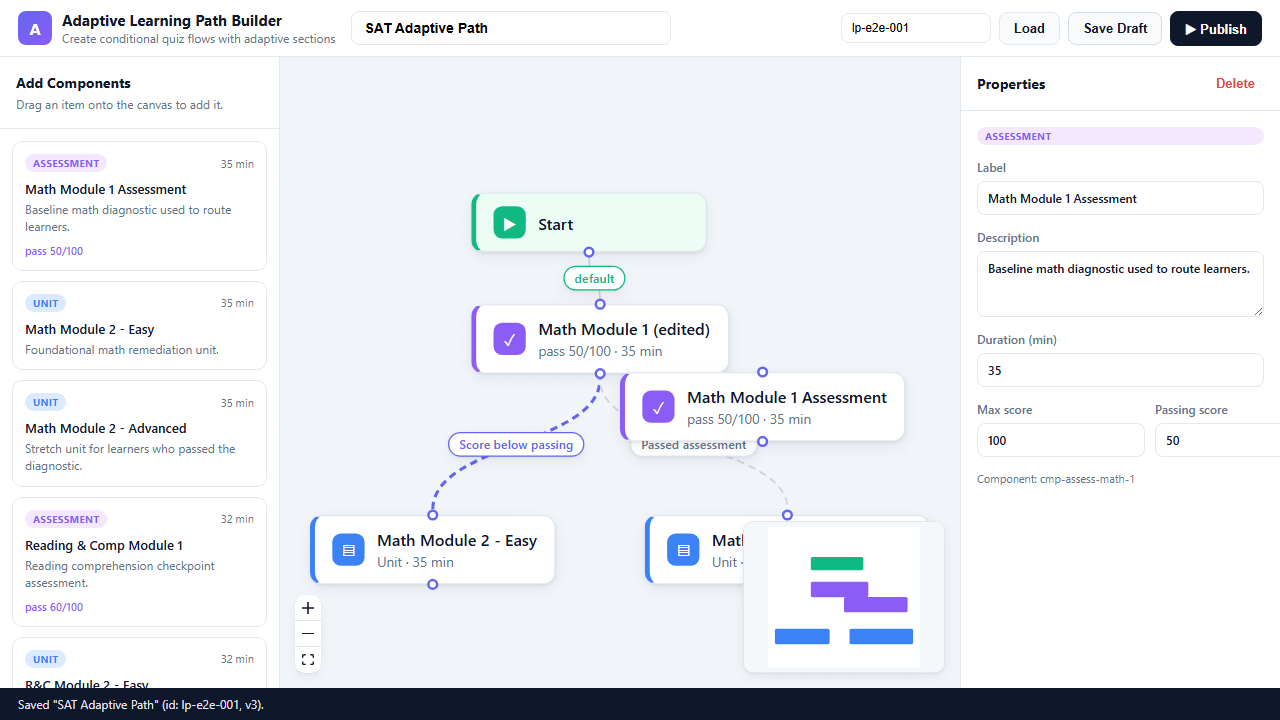
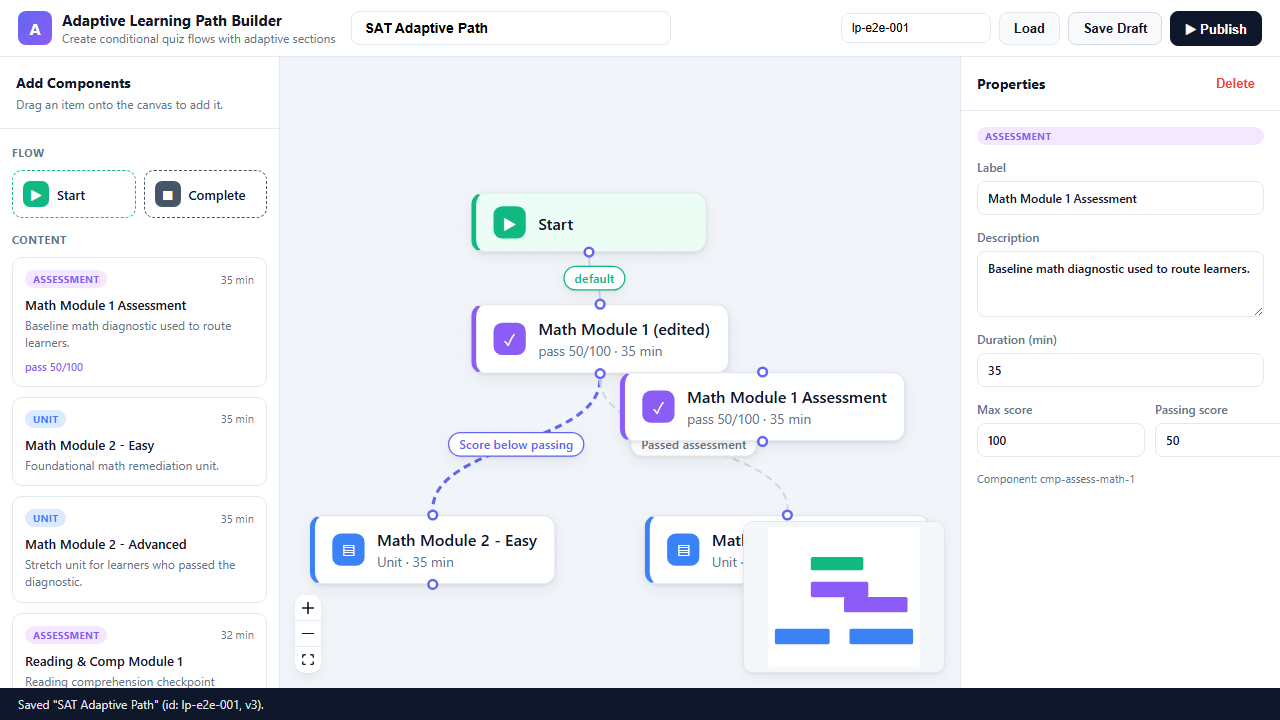
Add Start/End structural nodes to the palette
Designers can now drag Start and Complete nodes onto the canvas to build the
full mockup structure from scratch (previously start/end only appeared when
loading a saved path). Adds addStructuralNode store action, palette items,
drop handling, styling, and a unit test.

diff --git a/frontend/src/styles.css b/frontend/src/styles.css
@@ -173,6 +173,42 @@ html,
   font-size: 13px;
   padding: 16px;
 }
+.palette__group {
+  font-size: 11px;
+  font-weight: 700;
+  text-transform: uppercase;
+  letter-spacing: 0.05em;
+  color: var(--muted);
+  margin-top: 4px;
+}
+.palette__structural {
+  display: flex;
+  gap: 8px;
+}
+.structural-card {
+  flex: 1;
+  display: flex;
+  align-items: center;
+  gap: 8px;
+  border: 1px dashed var(--border);
+  border-radius: var(--radius);
+  padding: 10px;
+  cursor: grab;
+  font-size: 13px;
+  font-weight: 600;
+  background: #fff;
+  transition: all 0.12s ease;
+}
+.structural-card:hover {
+  box-shadow: var(--shadow);
+  transform: translateY(-1px);
+}
+.structural-card--start {
+  border-color: var(--start);
+}
+.structural-card--end {
+  border-color: var(--end);
+}
 .palette-card {
   border: 1px solid var(--border);
   border-radius: var(--radius);

diff --git a/frontend/src/components/ComponentPalette.tsx b/frontend/src/components/ComponentPalette.tsx
@@ -11,6 +11,11 @@ export default function ComponentPalette() {
     e.dataTransfer.effectAllowed = "move";
   };
 
+  const onStructuralDragStart = (e: React.DragEvent, type: "start" | "end") => {
+    e.dataTransfer.setData("application/alpb-structural", type);
+    e.dataTransfer.effectAllowed = "move";
+  };
+
   return (
     <aside className="palette" aria-label="Available content">
       <div className="palette__header">
@@ -19,6 +24,26 @@ export default function ComponentPalette() {
       </div>
 
       <div className="palette__list">
+        <div className="palette__group">Flow</div>
+        <div className="palette__structural">
+          <div
+            className="structural-card structural-card--start"
+            draggable
+            onDragStart={(e) => onStructuralDragStart(e, "start")}
+            data-testid="palette-start"
+          >
+            <span className="node__icon node__icon--start">▶</span> Start
+          </div>
+          <div
+            className="structural-card structural-card--end"
+            draggable
+            onDragStart={(e) => onStructuralDragStart(e, "end")}
+            data-testid="palette-end"
+          >
+            <span className="node__icon node__icon--end">■</span> Complete
+          </div>
+        </div>
+        <div className="palette__group">Content</div>
         {components.map((c) => (
           <div
             key={c.id}

diff --git a/frontend/src/store.ts b/frontend/src/store.ts
@@ -47,6 +47,7 @@ interface BuilderState {
 
   // Mutations
   addComponentNode: (component: AvailableComponent, position: { x: number; y: number }) => void;
+  addStructuralNode: (type: "start" | "end", position: { x: number; y: number }) => void;
   selectNode: (id: string | null) => void;
   selectEdge: (id: string | null) => void;
   updateNode: (id: string, patch: Partial<RFNode["data"]>) => void;
@@ -166,6 +167,21 @@ export const useBuilder = create<BuilderState>((set, get) => ({
             ? { assessment: component.metadata.assessment }
             : {}),
         },
+      },
+    };
+    set({ nodes: [...get().nodes, node], selectedNodeId: id, selectedEdgeId: null });
+  },
+
+  addStructuralNode: (type, position) => {
+    const id = uid("node");
+    const node: RFNode = {
+      id,
+      type: "content",
+      position,
+      data: {
+        label: type === "start" ? "Start" : "Complete",
+        nodeType: type,
+        componentId: type === "start" ? "system-start" : "system-end",
       },
     };
     set({ nodes: [...get().nodes, node], selectedNodeId: id, selectedEdgeId: null });

diff --git a/frontend/src/components/Canvas.tsx b/frontend/src/components/Canvas.tsx
@@ -29,6 +29,7 @@ function CanvasInner() {
   const onEdgesChange = useBuilder((s) => s.onEdgesChange);
   const onConnect = useBuilder((s) => s.onConnect);
   const addComponentNode = useBuilder((s) => s.addComponentNode);
+  const addStructuralNode = useBuilder((s) => s.addStructuralNode);
   const selectNode = useBuilder((s) => s.selectNode);
   const selectEdge = useBuilder((s) => s.selectEdge);
 
@@ -41,13 +42,20 @@ function CanvasInner() {
   const onDrop = useCallback(
     (event: React.DragEvent) => {
       event.preventDefault();
+      const position = screenToFlowPosition({ x: event.clientX, y: event.clientY });
+
+      const structural = event.dataTransfer.getData("application/alpb-structural");
+      if (structural === "start" || structural === "end") {
+        addStructuralNode(structural, position);
+        return;
+      }
+
       const raw = event.dataTransfer.getData("application/alpb-component");
       if (!raw) return;
       const component = JSON.parse(raw) as AvailableComponent;
-      const position = screenToFlowPosition({ x: event.clientX, y: event.clientY });
       addComponentNode(component, position);
     },
-    [screenToFlowPosition, addComponentNode],
+    [screenToFlowPosition, addComponentNode, addStructuralNode],
   );
 
   const onDragOver = useCallback((event: React.DragEvent) => {

diff --git a/frontend/src/store.test.ts b/frontend/src/store.test.ts
@@ -96,6 +96,16 @@ describe("builder store", () => {
     expect(edges).toHaveLength(0);
   });
 
+  it("adds start and end structural nodes with system component ids", () => {
+    const s = useBuilder.getState();
+    s.addStructuralNode("start", { x: 0, y: 0 });
+    s.addStructuralNode("end", { x: 0, y: 400 });
+    const { nodes } = useBuilder.getState();
+    expect(nodes.map((n) => n.data.nodeType)).toEqual(["start", "end"]);
+    expect(nodes[0].data.componentId).toBe("system-start");
+    expect(nodes[1].data.label).toBe("Complete");
+  });
+
   it("toggles the AND/OR operator", () => {
     const s = useBuilder.getState();
     s.addComponentNode(assessment, { x: 0, y: 0 });